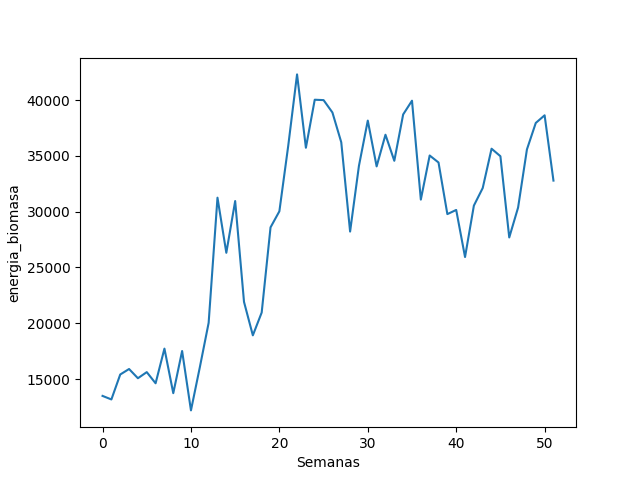
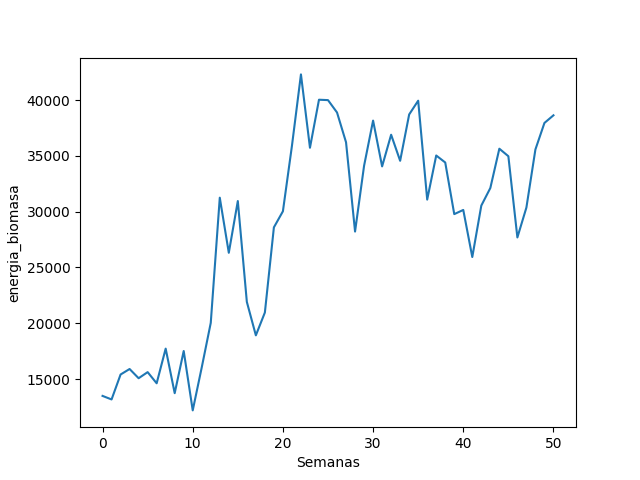
Ordenado y limpieza del metodo main

diff --git a/Proyecto_Final/proyecto_final.py b/Proyecto_Final/proyecto_final.py
@@ -1,3 +1,4 @@
+# type: ignore
 from stable_baselines3 import A2C
 from stable_baselines3.common.env_util import make_vec_env
 from stable_baselines3.common.vec_env import SubprocVecEnv, DummyVecEnv
@@ -81,7 +82,7 @@ class HydroThermalEnv(gym.Env):
         self.matrices_hidrologicas = {}
         for i in range(self.data_matrices_hidrologicas.shape[0]):
             array_1d = self.data_matrices_hidrologicas.iloc[i, :].values
-            self.matrices_hidrologicas[i] = array_1d.reshape(5, 5) # type: ignore
+            self.matrices_hidrologicas[i] = array_1d.reshape(5, 5) 
 
         # Inicializar variables internas
         self.reset(seed=42)
@@ -108,7 +109,7 @@ class HydroThermalEnv(gym.Env):
         # retorna el estado inicial del estado hidrológico 0,1,2,3,4
         self.cronica = self._sortear_cronica_inicial()
         h0 = self.data_matriz_aportes_discreta.iloc[self.T0, self.cronica]
-        return int(h0) # type: ignore
+        return int(h0) 
 
     def _siguiente_hidrologia(self):
         # retorna el estado hidrológico siguiente 0,1,2,3,4
@@ -131,12 +132,12 @@ class HydroThermalEnv(gym.Env):
         estados_ini = self.data_matriz_aportes_discreta.loc[self.tiempo % 52] 
 
         if self.tiempo == 51 or self.tiempo == 103:
-            estados_fin = self._rotar_fila(self.data_matriz_aportes_discreta.loc[0])  # type: ignore
+            estados_fin = self._rotar_fila(self.data_matriz_aportes_discreta.loc[0])  
         else:
             estados_fin = self.data_matriz_aportes_discreta.loc[(self.tiempo + 1) % 52] 
 
         coincidencias = (estados_ini == self.hidrologia_anterior) & (estados_fin == self.hidrologia)
-        columnas_validas = self.data_matriz_aportes_discreta.columns[coincidencias] # type: ignore
+        columnas_validas = self.data_matriz_aportes_discreta.columns[coincidencias] 
 
         if len(columnas_validas) == 0:
             raise ValueError("No hay coincidencias válidas para los estados hidrológicos actuales")
@@ -184,13 +185,13 @@ class HydroThermalEnv(gym.Env):
         return self._gen_eolico() + self._gen_solar() + self._gen_bio()
 
     def _gen_termico_bajo(self, demanda_residual):
-        if demanda_residual <= self.P_TERMICO_BAJO_MAX*168:
+        if demanda_residual <= self.P_TERMICO_BAJO_MAX * 168:
             return demanda_residual
         else:
             return self.P_TERMICO_BAJO_MAX
 
     def _gen_termico_alto(self, demanda_residual):
-        if demanda_residual <= self.P_TERMICO_ALTO_MAX*168:
+        if demanda_residual <= self.P_TERMICO_ALTO_MAX * 168:
             return demanda_residual
         else:
             raise ValueError("Demanda residual excede la capacidad del térmico alto")
@@ -255,7 +256,7 @@ class HydroThermalEnv(gym.Env):
         self.hidrologia = self._siguiente_hidrologia()
         aportes = self._aportes()
         vert = self.volumen
-        self.volumen = min(self.volumen - qt + aportes, self.V_CLAIRE_MAX) # type: ignore
+        self.volumen = min(self.volumen - qt + aportes, self.V_CLAIRE_MAX) 
         if (self.volumen>=self.V_CLAIRE_MAX): 
             vert=vert - qt + aportes -self.V_CLAIRE_MAX
         else:
@@ -310,9 +311,9 @@ class OneHotFlattenObs(gym.ObservationWrapper):
 
     def observation(self, obs):
         # idem: si necesitas V_CLAIRE_MAX usa self.env.unwrapped.V_CLAIRE_MAX
-        v_norm = obs["volumen"] / HydroThermalEnv.V_CLAIRE_MAX # type: ignore
+        v_norm = obs["volumen"] / HydroThermalEnv.V_CLAIRE_MAX 
         h = obs["hidrologia"]
-        hidro_oh = np.zeros(HydroThermalEnv.N_HIDRO, dtype=np.float32) # type: ignore
+        hidro_oh = np.zeros(HydroThermalEnv.N_HIDRO, dtype=np.float32) 
 
         hidro_oh[h] = 1.0
         semana = obs["tiempo"] % HydroThermalEnv.T_MAX
@@ -327,7 +328,7 @@ def make_train_env():
     env = TimeLimit(env, max_episode_steps=HydroThermalEnv.T_MAX+1)
     return env
 
-def train():
+def entrenar():
     # vectorizado de entrenamiento (8 envs en procesos separados)
     n_envs = 8
     vec_env = SubprocVecEnv([make_train_env for _ in range(n_envs)])
@@ -341,25 +342,7 @@ def train():
     model.learn(total_timesteps=total_timesteps)
     model.save("a2c_hydro_thermal_claire")
 
-def save_trayectorias():
-    if os.path.exists("evaluacion_acciones_recompensas.csv"):
-        df_trayectorias = pd.read_csv("evaluacion_acciones_recompensas.csv")
-        df_trayectorias_copy = df_trayectorias.copy()
-        tiempos = df_trayectorias["tiempo"]
-        df_trayectorias_copy.drop("tiempo", axis=1,inplace=True)
-
-        for i in range(df_trayectorias_copy.columns.shape[0]):
-            fig, ax = plt.subplots()
-            ax.plot(tiempos, df_trayectorias_copy.iloc[:, i])
-            ax.set_ylabel(f"{df_trayectorias_copy.columns[i]}")
-            ax.set_xlabel("Semanas")
-            nombre_figura = f"{df_trayectorias_copy.columns[i]}.png"
-            fig.savefig(os.path.join("figures", nombre_figura))
-            plt.close(fig)
-
-if __name__ == "__main__":
-    model_path = "a2c_hydro_thermal_claire"
-    
+def cargar_o_entrenar_modelo(model_path):
     # Verificar si el archivo del modelo existe
     if os.path.exists(f"{model_path}.zip"):
         try:
@@ -369,108 +352,91 @@ if __name__ == "__main__":
         except Exception as e:
             print(f"Error al cargar el modelo: {e}")
             print("Entrenando un modelo nuevo...")
-            train()
+            entrenar()
             model = A2C.load(model_path)
     else:
         print("Archivo del modelo no encontrado, entrenando uno nuevo...")
-        train()
+        entrenar()
         model = A2C.load(model_path)
 
-    # Evaluar el modelo
-    # entorno de evaluación (no paralelo aquí, o se puede hacer otro vectorizado)
-    eval_env = make_train_env()
-    obs, info = eval_env.reset() # type: ignore
-    done = False
-    reward_sum = 0.0
+    return model
 
-    # Datos guardados en info
-    volumen_list = []
-    hidrologia_list = []
-    tiempo_list = []
-    turbinado_list = []
-    energia_turbinada_list = []
-    energia_eolica_list = []
-    energia_solar_list = []
-    energia_biomasa_list = []
-    energia_renovable_list = []
-    energia_termico_bajo_list = []
-    energia_termico_alto_list = []
-    ingreso_exportacion_list = []
-    costo_termico_list = []
+def evaluar_modelo(model, eval_env, num_pasos=51):
+    obs, info = eval_env.reset()
+    resultados = []
     
-    # Resultados del agente
-    actions_list = []
-    rewards_list = []
+    for _ in range(num_pasos):
+        action, _ = model.predict(obs)
+        obs, reward, done, _, info = eval_env.step(action)
+        
+        resultado_paso = info.copy()
+        resultado_paso["action"] = action[0] if hasattr(action, "__len__") else action
+        resultado_paso["reward"] = reward
+        resultados.append(resultado_paso)
 
-    print("Iniciando evaluación del modelo...")
-
-    # Evaluar el modelo en un episodio
-    while True:
-        action, _ = model.predict(obs) # type: ignore
-        obs, reward, done, _, info = eval_env.step(action) # type: ignore
-
-        reward_sum += reward # type: ignore
-
-        # Guardar datos
-        volumen_list.append(info["volumen"])
-        hidrologia_list.append(info["hidrologia"])
-        tiempo_list.append(info["tiempo"])
-        turbinado_list.append(info["turbinado"])
-        energia_turbinada_list.append(info["energia_turbinada"])
-        energia_eolica_list.append(info["energia_eolica"])
-        energia_solar_list.append(info["energia_solar"])
-        energia_biomasa_list.append(info["energia_biomasa"])
-        energia_renovable_list.append(info["energia_renovable"])
-        energia_termico_bajo_list.append(info["energia_termico_bajo"])
-        energia_termico_alto_list.append(info["energia_termico_alto"])
-        ingreso_exportacion_list.append(info["ingreso_exportacion"])
-        costo_termico_list.append(info["costo_termico"])
-
-        actions_list.append(action[0] if hasattr(action, "__len__") else action)
-        rewards_list.append(reward)
-
-        # evaluar como funciona hasta el primer año
-        if info["tiempo"] == 51:
+        if done:
             break
+            
+    return pd.DataFrame(resultados)
 
-    df_eval = pd.DataFrame({
-        "volumen": volumen_list, 
-        "hidrologia": hidrologia_list,
-        "tiempo": tiempo_list,
-        "volumen_turbinado": turbinado_list,
-        "energia_turbinada": energia_turbinada_list,
-        "energia_eolica": energia_eolica_list,
-        "energia_solar": energia_solar_list,
-        "energia_biomasa": energia_biomasa_list,
-        "energia_renovable": energia_renovable_list,
-        "energia_termico_barato": energia_termico_bajo_list,
-        "energia_termico_caro": energia_termico_alto_list,
-        "ingreso_exportacion": ingreso_exportacion_list,
-        "costo_termico": costo_termico_list,
-        "action": actions_list,
-        "reward": rewards_list
-    })
+def guardar_trayectorias(df_trayectorias, output_dir="figures"):
+    if not os.path.exists(output_dir):
+        os.makedirs(output_dir)
 
-    df_eval.to_csv("trayectorias.csv", index=False)
-    print("Resultados guardados en trayectorias.csv")
+    df_trayectorias_copy = df_trayectorias.copy()
+    tiempos = df_trayectorias_copy.pop("tiempo")
 
-    print(f"Recompensa total en evaluación: {reward_sum:.2f}")
+    for col in df_trayectorias_copy.columns:
+        fig, ax = plt.subplots()
+        ax.plot(tiempos, df_trayectorias_copy[col])
+        ax.set_ylabel(col)
+        ax.set_xlabel("Semanas")
+        nombre_figura = f"{col}.png"
+        fig.savefig(os.path.join(output_dir, nombre_figura))
+        plt.close(fig)
 
-    save_trayectorias()
-
-    # Graficar acciones y recompensas
-    fig, (ax1, ax2) = plt.subplots(2, 1, figsize=(8, 6), sharex=True)
-
+def graficar_resumen_evaluacion(df_eval):
+    fig, (ax1, ax2) = plt.subplots(2, 1, figsize=(10, 8), sharex=True)
+    
     # Acciones
-    ax1.plot(tiempo_list, actions_list, marker='o', color='tab:blue')
-    ax1.set_ylabel("Acción")
-    ax1.set_title("Acciones vs Pasos")
+    ax1.plot(df_eval["tiempo"], df_eval["action"], marker='o', linestyle='-', color='tab:blue')
+    ax1.set_xlabel("Paso (Semana)")
+    ax1.set_ylabel("Acción (Fracción a turbinar)")
+    ax1.set_title("Acciones durante la Evaluación")
+    ax1.grid(True)
 
     # Recompensas
-    ax2.plot(tiempo_list, rewards_list, marker='o', color='tab:green')
-    ax2.set_xlabel("Paso")
+    ax2.plot(df_eval["tiempo"], df_eval["reward"], marker='o', linestyle='-', color='tab:green')
+    ax2.set_xlabel("Paso (Semana)")
     ax2.set_ylabel("Recompensa")
-    ax2.set_title("Recompensas vs Pasos")
+    ax2.set_title("Recompensas durante la Evaluación")
+    ax2.grid(True)
 
     plt.tight_layout()
     plt.show()
+
+if __name__ == "__main__":
+    MODEL_PATH = "a2c_hydro_thermal_claire"
+    EVAL_CSV_PATH = "trayectorias.csv"
+
+    # Cargar o entrenar el modelo
+    model = cargar_o_entrenar_modelo(MODEL_PATH)
+
+    # Evaluar el modelo
+    print("Iniciando evaluación del modelo...")
+    eval_env = make_train_env()
+    df_eval = evaluar_modelo(model, eval_env, num_pasos=51)
+
+    # Guardar y visualizar los resultados de la evaluación 
+    df_eval.to_csv(EVAL_CSV_PATH, index=False)
+    print(f"Resultados de la evaluación guardados en {EVAL_CSV_PATH}")
+
+    total_reward = df_eval["reward"].sum()
+    print(f"Recompensa total en evaluación: {total_reward:.2f}")
+
+    # Guardar gráficos de cada variable de la trayectoria
+    guardar_trayectorias(df_eval)
+    print("Gráficos de trayectoria guardados en la carpeta 'figures'.")
+
+    # Mostrar gráfico resumen de acciones y recompensas
+    graficar_resumen_evaluacion(df_eval)
